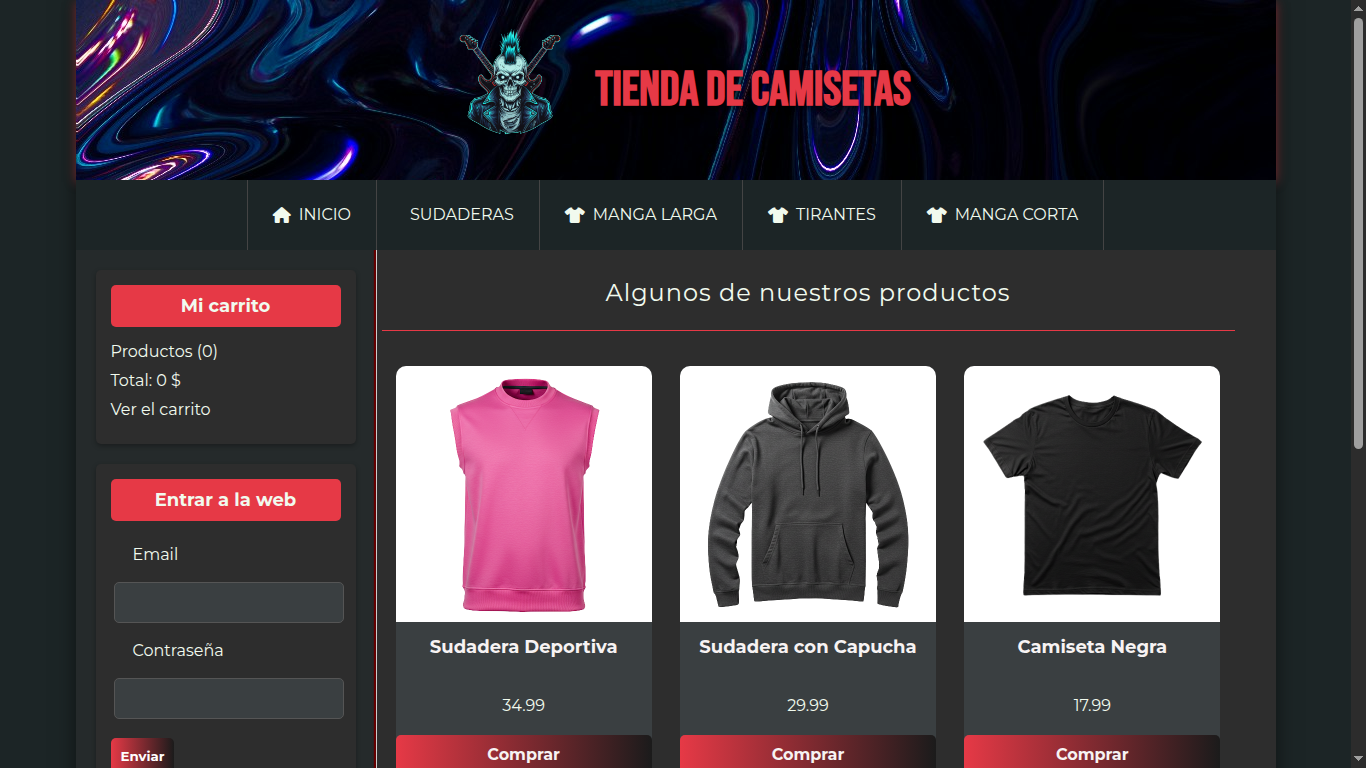
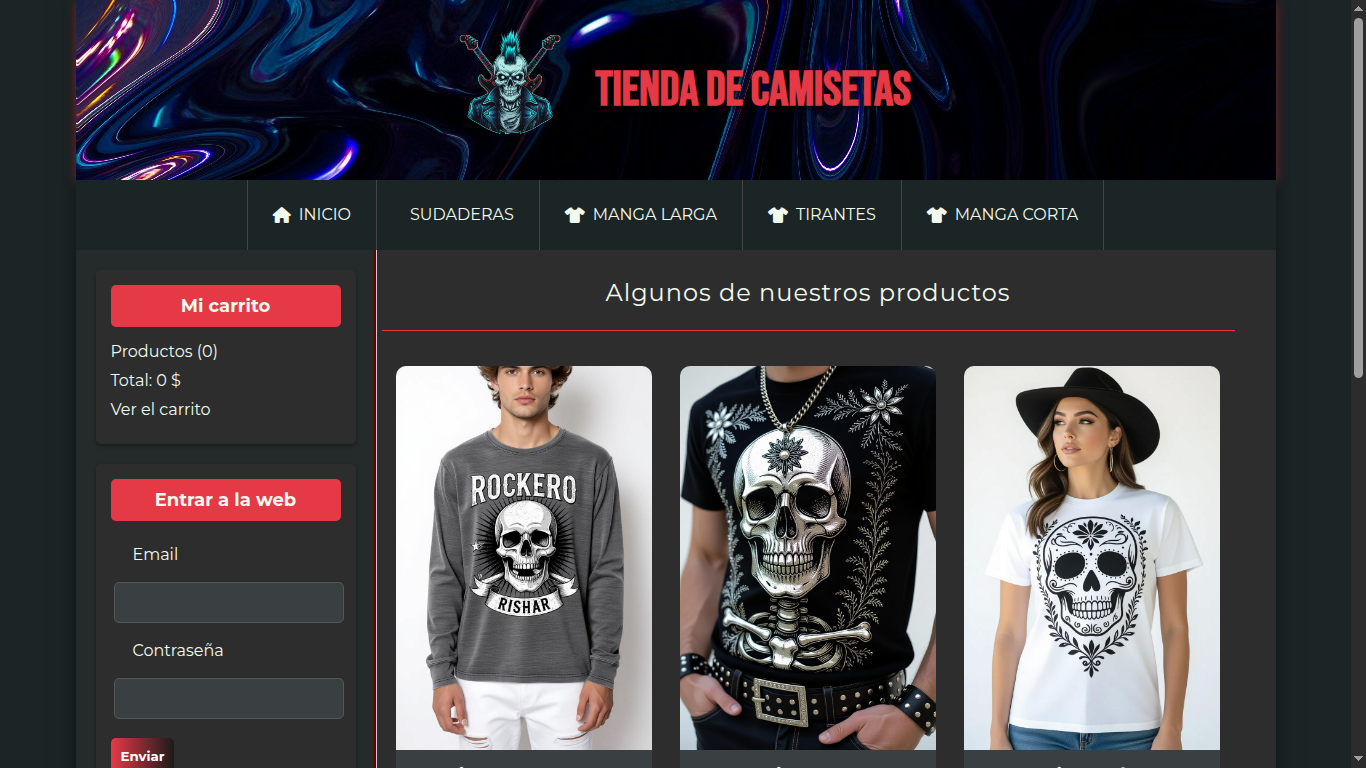
Upload stack and certifieds

Changed region(s): [[0.2767, 0.4688, 0.8917, 1.0], [0.9839, 0.4688, 1.0, 0.5938]]

diff --git a/src/components/LanguageCardItem/LanguageCardItem.tsx b/src/components/LanguageCardItem/LanguageCardItem.tsx
@@ -1,0 +1,69 @@
+import React from 'react';
+import { useTheme } from '@mui/material/styles';
+import styles from '../Module-CSS/index.module.css';
+
+interface Props {
+  item: any;
+  stackImages?: any;
+  lang?: any;
+}
+
+const LanguageCardItem: React.FC<Props> = ({ item, stackImages, lang }) => {
+  const theme = useTheme();
+  const mainLogo = stackImages ? stackImages[item?.language_code] : null;
+
+  return (
+    <div className={`${styles.cardContainer} text-${theme.palette.text.primary}`}>
+      <div className="px-4 py-4">
+        <h3 className="font-bold text-xl text-center mb-4 mt-2">{item?.name}</h3>
+        
+        <div className="mt-2 bg-opacity-50 bg-[#1e1e1e] rounded-lg p-4">
+          {item?.backend && item.backend.length > 0 && (
+              <div className="mb-4">
+                <p className="font-semibold text-lg mb-2">Backend:</p>
+                <ul className="list-disc list-inside text-left">
+                    {item.backend.map((tech: string, index: number) => (
+                        <li key={index}>{tech}</li>
+                    ))}
+                </ul>
+              </div>
+          )}
+          
+          {item?.frontend && item.frontend.length > 0 && (
+              <div className="mb-4">
+                <p className="font-semibold text-lg mb-2">Frontend:</p>
+                <ul className="list-disc list-inside text-left">
+                    {item.frontend.map((tech: string, index: number) => (
+                        <li key={index}>{tech}</li>
+                    ))}
+                </ul>
+              </div>
+          )}
+
+          {(lang.idiom === 'es' ? item?.description_es : item?.description_en) && (
+            <div className="mb-4">
+              <p className="font-semibold text-lg mb-2">{lang.idiom === 'es' ? 'Descripción' : 'Description'}</p>
+              <div className="max-h-[120px] overflow-y-auto pr-2">
+                <p className="text-justify">
+                  {lang.idiom === 'es' ? item?.description_es : item?.description_en}
+                </p>
+              </div>
+            </div>
+          )}
+        </div>
+      </div>
+
+      {mainLogo && (
+        <div className="mt-2 flex justify-center items-center h-24"> {/* Increased height from h-16 to h-24 */}
+          <img
+            src={mainLogo}
+            alt="Main Tech Logo"
+            className="h-full w-auto object-contain mx-2"
+          />
+        </div>
+      )}
+    </div>
+  );
+};
+
+export default LanguageCardItem;

diff --git a/src/pages/index.tsx b/src/pages/index.tsx
@@ -7,6 +7,7 @@ import SectionAboutMe from '../components/SectionAboutMe/SectionAboutMe';
 import SectionStartups from '../components/SectionStartups/SectionStartups';
 import SectionProjects from '../components/SectionProjects/SectionProjects';
 import SectionLanguages from '../components/SectionLanguages/SectionLanguages';
+import SectionCertifications from '../components/SectionCertifications/SectionCertifications'; // Importa el nuevo componente
 import { useState } from 'react';
 import styles from '../components/Module-CSS/index.module.css';
 
@@ -17,9 +18,10 @@ interface Props {
   projects: any[];
   repositories: any[];
   stackImages: any;
+  certifications: any[]; // Añade la nueva prop
 }
 
-const Home: React.FC<Props> = ({ initialLanguage, texts, startups, projects, repositories, stackImages }) => {
+const Home: React.FC<Props> = ({ initialLanguage, texts, startups, projects, repositories, stackImages, certifications }) => {
   const { theme, toggleTheme } = useDarkMode();
   const [language, setLanguage] = useState<string>(initialLanguage);
   const router = useRouter();
@@ -44,6 +46,7 @@ const Home: React.FC<Props> = ({ initialLanguage, texts, startups, projects, rep
         <SectionLanguages repositories={repositories} stackImages={stackImages} lang={texts} />
         <SectionStartups startups={startups} lang={texts} />
         <SectionProjects projects={projects} lang={texts} />
+        <SectionCertifications certifications={certifications} lang={texts} /> {/* Añade la nueva sección */}
       </div>
     </div>
   );
@@ -54,12 +57,14 @@ export const getStaticProps: GetStaticProps = async ({ locale }) => {
   const startups = require(`../constants/startups_bianchi.json`);
   const projects = require(`../constants/proyectos_bianchi.json`);
   const repositories = require(`../constants/repositorios_bianchi.json`);
+  const certifications = require(`../constants/certifications_bianchi.json`); 
+  
   const stackImages = {
     PHP: "./assets/php.png",
     TypeScript: "./assets/ts.webp",
     Python: "./assets/py.jpg",
     JavaScript: "./assets/js.png",
-    'C#': "./assets/c_sharp.webp",
+    'C#': "./assets/c_sharp.png",
     Java: "./assets/java.png"
   };
 
@@ -71,6 +76,7 @@ export const getStaticProps: GetStaticProps = async ({ locale }) => {
       projects,
       repositories,
       stackImages,
+      certifications, // Pasa los datos a la página
     },
   };
 };

diff --git a/src/components/CertificationCardItem/CertificationCardItem.tsx b/src/components/CertificationCardItem/CertificationCardItem.tsx
@@ -1,0 +1,50 @@
+import React from 'react';
+import { useTheme } from '@mui/material/styles';
+import styles from '../Module-CSS/index.module.css';
+
+interface Props {
+  item: any;
+  lang?: any;
+}
+
+const CertificationCardItem: React.FC<Props> = ({ item, lang }) => {
+  const theme = useTheme();
+
+  return (
+    <div className={`${styles.cardContainer} text-${theme.palette.text.primary}`}>
+      <div className="px-4 py-4">
+        <h3 className="font-bold text-xl text-center mb-4 mt-2">{item.name}</h3>
+        
+        <div className="mt-2 bg-opacity-50 bg-[#1e1e1e] rounded-lg p-4">
+          <p className="font-semibold text-lg mb-2">{item.issuer}</p>
+          <p className="text-sm text-gray-400 mb-2">{item.date}</p>
+
+          {item.logo_url && (
+            <div className="my-4 flex justify-center items-center h-68"> {/* Altura aumentada a h-48 */}
+              <img
+                src={item.logo_url}
+                alt={`${item.name} Logo`}
+                className="h-full w-auto object-contain mx-2"
+              />
+            </div>
+          )}
+          
+          {item.url && (
+            <div className="text-center mt-4">
+              <a 
+                href={item.url} 
+                target="_blank" 
+                rel="noopener noreferrer"
+                className="text-pink-500 hover:text-pink-400 transition-colors"
+              >
+                {lang.view_certificate_button}
+              </a>
+            </div>
+          )}
+        </div>
+      </div>
+    </div>
+  );
+};
+
+export default CertificationCardItem;

diff --git a/src/components/SectionLanguages/SectionLanguages.tsx b/src/components/SectionLanguages/SectionLanguages.tsx
@@ -1,5 +1,5 @@
 import React, { useEffect, useState } from 'react';
-import CardItem from '../CardItem/CardItem';
+import LanguageCardItem from '../LanguageCardItem/LanguageCardItem'; // Changed import
 import styles from '../Module-CSS/index.module.css';
 import useScrollButtons from './useScrollButtons';
 
@@ -77,7 +77,7 @@ const SectionLanguages: React.FC<Props> = ({ repositories, stackImages, lang }) 
                     className="flex-shrink-0"
                     style={{ margin: '4px 8px', width: 'calc(50% - 16px)' }}
                   >
-                    <CardItem item={repo} stackImages={stackImages} lang={lang} />
+                    <LanguageCardItem item={repo} stackImages={stackImages} lang={lang} />
                   </div>
                 ))}
               </div>
@@ -93,7 +93,7 @@ const SectionLanguages: React.FC<Props> = ({ repositories, stackImages, lang }) 
             </>
           )}
           {!isMobile && repositories.map((repo) => (
-            <CardItem key={repo.id} item={repo} stackImages={stackImages} lang={lang} />
+            <LanguageCardItem key={repo.id} item={repo} stackImages={stackImages} lang={lang} /> // Changed component
           ))}
         </div>
       </div>

diff --git a/src/components/SectionCertifications/SectionCertifications.tsx b/src/components/SectionCertifications/SectionCertifications.tsx
@@ -1,0 +1,25 @@
+import React from 'react';
+import CertificationCardItem from '../CertificationCardItem/CertificationCardItem';
+import styles from '../Module-CSS/index.module.css';
+
+interface Props {
+  certifications: any[];
+  lang?: any;
+}
+
+const SectionCertifications: React.FC<Props> = ({ certifications, lang }) => {
+  return (
+    <section className={styles.section}>
+      <div className={styles.sectionContainer}>
+        <h2 className={styles.sectionTitle}>{lang.certifications_title}</h2>
+        <div className={styles.cardGrid}>
+          {certifications.map((cert) => (
+            <CertificationCardItem key={cert.id} item={cert} lang={lang} /> // Pasa la prop lang
+          ))}
+        </div>
+      </div>
+    </section>
+  );
+};
+
+export default SectionCertifications;
